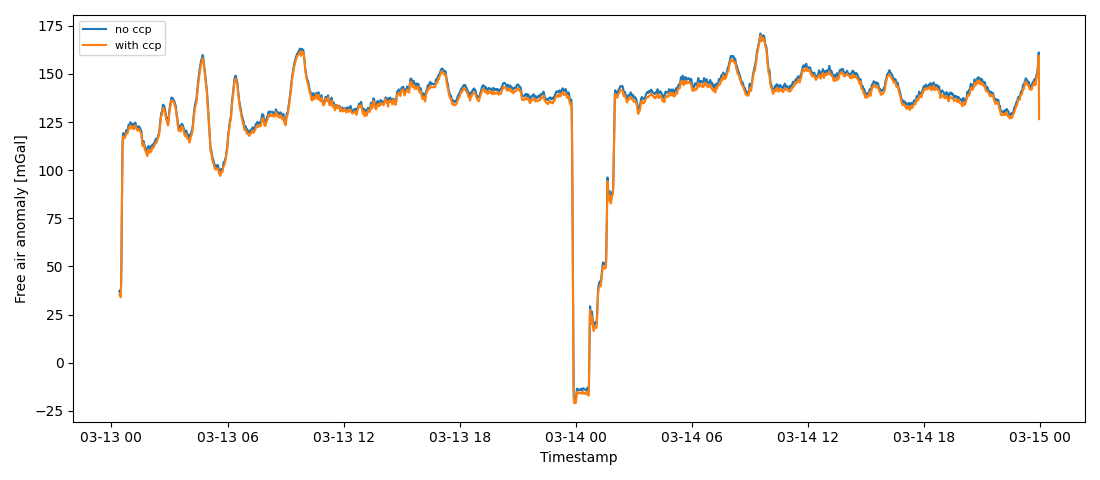
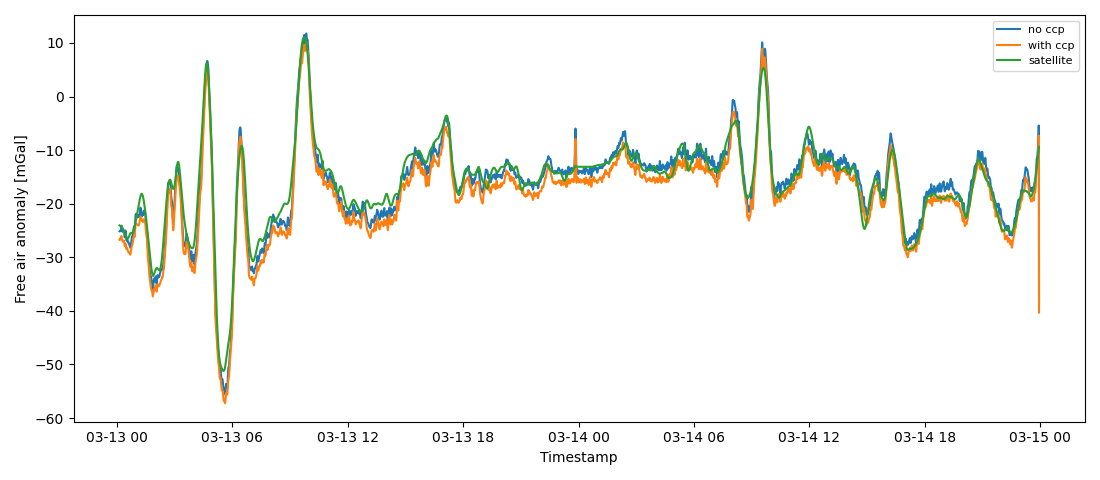
update to fix ccp example nav dropouts

diff --git a/example-scripts/dgs_ccp_calc.py b/example-scripts/dgs_ccp_calc.py
@@ -27,6 +27,7 @@ import shipgrav.grav as sgg
 import shipgrav.io as sgi
 import shipgrav.nav as sgn
 import tomli as tm
+from scipy.interpolate import interp1d
 from scipy.signal import filtfilt, firwin
 
 # %%
@@ -49,6 +50,24 @@ dgs_files = pooch.retrieve(url="https://zenodo.org/records/12733929/files/data.z
             members=['data/Thompson/TN400/gravimeter/DGS/AT1M-Grav-PROC_20220314-000001.Raw',
                     'data/Thompson/TN400/gravimeter/DGS/AT1M-Grav-PROC_20220313-000001.Raw']))
 
+nav_files = pooch.retrieve(url="https://service.rvdata.us/data/cruise/TN400/fileset/151457",
[1 lines of base64/hex data omitted]
+        processor=pooch.Untar(
+            members=['TN400/151457/data/POSMV-V5-INGGA-RAW_20220313-000001.Raw',
+                    'TN400/151457/data/POSMV-V5-INGGA-RAW_20220314-000001.Raw']))
+
+# %%
+# read and sort the nav data
+gps_nav = sgi.read_nav(ship, nav_files)
+gps_nav.sort_values('time_sec', inplace=True)
+gps_nav.reset_index(inplace=True, drop=True)
+
+# %%
+# we happen to know that there are some weird nav dropouts in this dataset
+# so clean them up here
+bad_inds = np.where(np.diff(gps_nav['lon']) > 1)[0]
+gps_nav.drop(bad_inds, axis=0, inplace=True)
+
 # %%
 # read and sort the gravimeter data
 dgs_data = sgi.read_dgs_laptop(dgs_files, ship)
@@ -59,18 +78,25 @@ dgs_data['tsec'] = [e.timestamp()
 dgs_data['grav'] = dgs_data['rgrav'] + bias_dgs
 
 # %%
-# trim some bits that we happen to know are bad
-dgs_data = dgs_data.iloc[1000:]
+# sync data geographic coordinates to nav by interpolating with timestamps
+# (interpolators use posix timestamps, not datetimes)
+gps_lon_int = interp1d(gps_nav['time_sec'].values, gps_nav['lon'].values,
+                       kind='linear', fill_value='extrapolate')
+gps_lat_int = interp1d(gps_nav['time_sec'].values, gps_nav['lat'].values,
+                       kind='linear', fill_value='extrapolate')
+dgs_data['lon_new'] = gps_lon_int(dgs_data['tsec'].values)
+dgs_data['lat_new'] = gps_lat_int(dgs_data['tsec'].values)
+
 
 # %%
 # calculate corrections for FAA
 ellipsoid_ht = np.zeros(len(dgs_data))  # we are working at sea level
-lat_corr = sgg.wgs_grav(dgs_data['lat']) + \
-    sgg.free_air_second_order(dgs_data['lat'], ellipsoid_ht)
-eotvos_corr = sgg.eotvos_full(dgs_data['lon'].values, dgs_data['lat'].values,
+lat_corr = sgg.wgs_grav(dgs_data['lat_new']) + \
+    sgg.free_air_second_order(dgs_data['lat_new'], ellipsoid_ht)
+eotvos_corr = sgg.eotvos_full(dgs_data['lon_new'].values, dgs_data['lat_new'].values,
                               ellipsoid_ht, sampling)
 tide_corr = sgg.longman_tide_prediction(
-    dgs_data['lon'], dgs_data['lat'], dgs_data['date_time'])
+    dgs_data['lon_new'], dgs_data['lat_new'], dgs_data['date_time'])
 
 dgs_data['faa'] = dgs_data['grav'] - lat_corr + eotvos_corr + tide_corr
 dgs_data['full_field'] = dgs_data['grav'] + eotvos_corr + tide_corr
@@ -79,7 +105,7 @@ dgs_data['full_field'] = dgs_data['grav'] + eotvos_corr + tide_corr
 # calculate kinematic variables and corrections for tilt correction
 # (maybe not strictly necessary? depends who you ask)
 gps_vn, gps_ve = sgn.latlon_to_EN(
-    dgs_data['lon'].values, dgs_data['lat'].values)
+    dgs_data['lon_new'].values, dgs_data['lat_new'].values)
 gps_vn = sampling*gps_vn
 gps_ve = sampling*gps_ve
 
@@ -102,6 +128,8 @@ cross_in_plat = acc_cross*up_vecs[1, :]
 long_in_plat = acc_long*up_vecs[0, :]
 level_error = lat_corr - igf_in_plat - long_in_plat + cross_in_plat
 
+dgs_data = dgs_data.iloc[2:]  # the first two points' FAA has some edge effect
+
 # %%
 # calculate cross-coupling coefficients
 _, model = sgg.calc_cross_coupling_coefficients(dgs_data['faa'].values, dgs_data['vcc'].values, dgs_data['ve'].values,
@@ -118,6 +146,7 @@ dgs_data['faa_ccp'] = dgs_data['faa'] + model.params.ve*dgs_data['ve'] + \
     model.params.al*dgs_data['al'] + \
     model.params.ax*dgs_data['ax']
 
+# filter FAA
 taps = 2*240
 freq = 1./240
 # we resampled to the specified sampling rate when reading the data
@@ -129,11 +158,24 @@ ffaa = filtfilt(B, 1, dgs_data['faa'])
 cfaa = filtfilt(B, 1, dgs_data['faa_ccp'])
 
 # %%
+# load satellite data for comparison
+sat_path = pooch.retrieve(url="https://zenodo.org/records/12733929/files/data.zip", 
+        known_hash="md5:83b0411926c0fef9d7ccb2515bb27cc0", progressbar=True, 
+        processor=pooch.Unzip(
+            members=['data/Thompson/TN400/sandwell_tracked.llg']))
+sat_grav = np.loadtxt(sat_path[0], usecols=(3,),
+                      delimiter=',', skiprows=1)
+sat_grav = sat_grav[2:]
+
+
+# %%
 plt.figure(figsize=(11, 4.8))
 plt.plot(dgs_data.iloc[taps:-taps//2]['date_time'],
          ffaa[taps:-taps//2], label='no ccp')
 plt.plot(dgs_data.iloc[taps:-taps//2]['date_time'],
          cfaa[taps:-taps//2], label='with ccp')
+plt.plot(dgs_data.iloc[taps:-taps//2]['date_time'],
+         sat_grav[taps:-taps//2], label='satellite')
 plt.xlabel('Timestamp')
 plt.ylabel('Free air anomaly [mGal]')
 plt.legend(fontsize=8)

diff --git a/shipgrav/__init__.py b/shipgrav/__init__.py
@@ -62,7 +62,7 @@ Navigation data
 
 Which navigation data should you use to process gravimeter data?
 
-In an ideal world, the gravimeter pulls navigation info from the ship's feed and synchronizes it perfectly with acquisition such that the output files have the correct geographic coordinates in them at the start. In practice, this synchronization doesn't always work as expected (see ``example-scripts/dgs_raw_comp.py`` for a case where the serial files do not have GPS info). So, we like to take the timestamped navigation data directly from the ship's feed and match up the gravimeter timestamps to obtain more accurate coordinates.
+In an ideal world, the gravimeter pulls navigation info from the ship's feed and synchronizes it perfectly with acquisition such that the output files have the correct geographic coordinates in them at the start. In practice, this synchronization doesn't always work as expected (see ``example-scripts/dgs_raw_comp.py`` for a case where the serial files do not have GPS info). So, we like to take the timestamped navigation data directly from the ship's feed and match up the gravimeter timestamps to obtain more accurate coordinates. Using navigation from a feed separate from the gravimeter is **highly recommended**.
 
 The database file included in shipgrav lists the navigation talkers that we expect are good to use for specific UNOLS vessels. Find the files that contain those feeds, and you should be able to read in timestamped coordinates from them.
 
@@ -94,10 +94,10 @@ The data files can be downloaded from R2R and Zenodo, and the scripts will do th
    :height: 250px
    :align: center
 
-``dgs_ccp_calc.py`` reads DGS files from R/V Thompson cruise TN400, calculates the FAA and various kinematic variables, and fits for cross-coupling coefficients. The cross-coupling correction is applied and the data are plotted with and without correction.
+``dgs_ccp_calc.py`` reads DGS files from R/V Thompson cruise TN400, calculates the FAA and various kinematic variables, and fits for cross-coupling coefficients. The cross-coupling correction is applied and the data are plotted with and without correction. Satellite-derived FAA is also plotted
 
 .. image:: _static/TN400_ccp.png
-   :alt: FAA for TN400, with and without cross-coupling correction applied.
+   :alt: FAA for TN400, with and without cross-coupling correction applied; and satellite-derived FAA.
    :height: 250px
    :align: center
 
